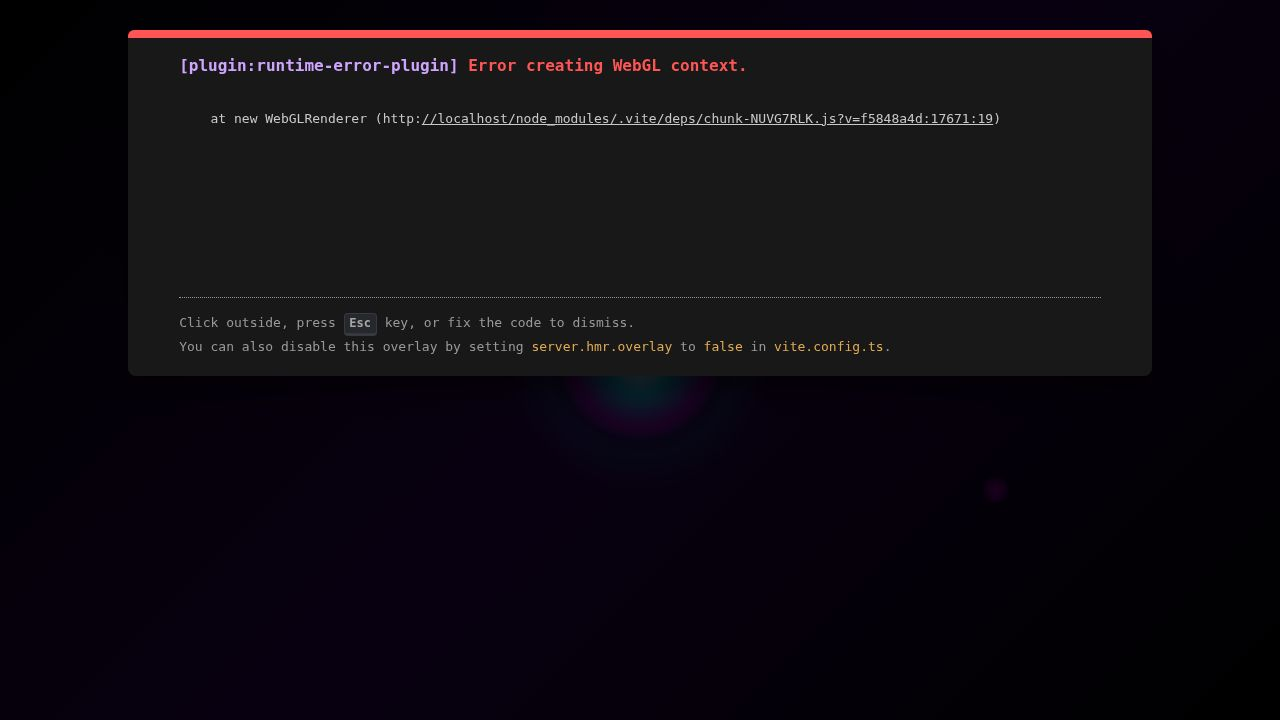
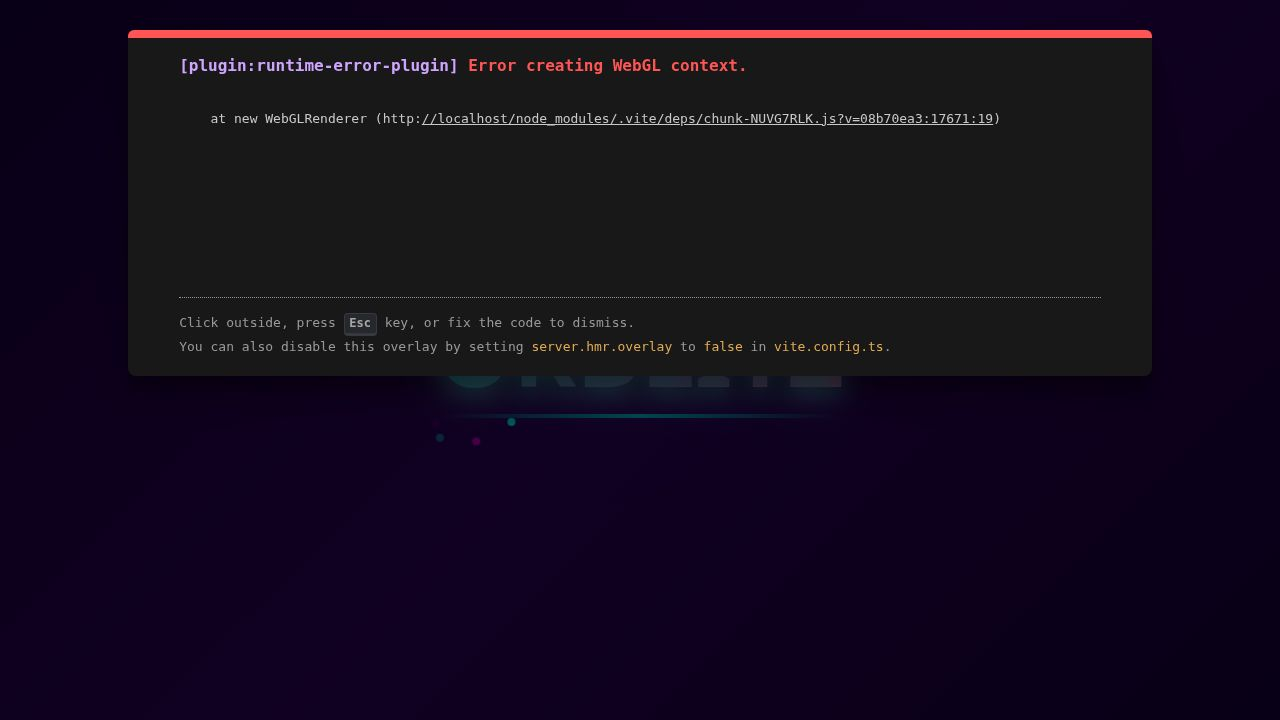
Add atmospheric depth and dynamic lighting to the game scene
Implement fog, player-tethered point light, and a post-processing stack with Bloom and SMAA passes, addressing React version conflicts in Vite configuration.

Replit-Commit-Author: Agent
Replit-Commit-Session-Id: c835ad14-b980-4609-9ea6-e9c3393206b5
Replit-Commit-Checkpoint-Type: full_checkpoint
Replit-Commit-Event-Id: 820edc75-51b3-44b7-bc6d-94490b6c6ebb
Replit-Commit-Screenshot-Url: https://storage.googleapis.com/screenshot-production-us-central1/348dcec8-252f-4e48-a8f4-24a74b741797/c835ad14-b980-4609-9ea6-e9c3393206b5/bnkxHC1
Replit-Helium-Checkpoint-Created: true

diff --git a/artifacts/orblitz/src/components/game/GameScene.tsx b/artifacts/orblitz/src/components/game/GameScene.tsx
@@ -1,5 +1,7 @@
-import { Suspense } from "react";
-import { Canvas, useThree } from "@react-three/fiber";
+import { Suspense, useEffect, useRef } from "react";
+import { Canvas, useThree, useFrame } from "@react-three/fiber";
+import { EffectComposer, Bloom, SMAA } from "@react-three/postprocessing";
+import * as THREE from "three";
 import { PlayerOrb } from "./PlayerOrb";
 import { DarkOrbs } from "./DarkOrbs";
 import { Projectiles } from "./Projectiles";
@@ -14,8 +16,40 @@ import { DefenseOrbs } from "./DefenseOrbs";
 import { MagiOrbEffects } from "./MagiOrbEffects";
 import { ScreenEffects } from "./ScreenEffects";
 import { useMagicOrb } from "@/lib/stores/useMagicOrb";
-import { useEffect, useRef } from "react";
 
+// ── Renderer configuration ────────────────────────────────────────────────────
+function RendererSetup() {
+  const { gl } = useThree();
+  useEffect(() => {
+    gl.toneMapping         = THREE.ReinhardToneMapping;
+    gl.toneMappingExposure = 1.2;
+    gl.outputColorSpace    = THREE.SRGBColorSpace;
+  }, [gl]);
+  return null;
+}
+
+// ── Dynamic point light tethered to player position ───────────────────────────
+function PlayerLight() {
+  const lightRef = useRef<THREE.PointLight>(null);
+
+  useFrame(() => {
+    if (!lightRef.current) return;
+    const pos = useMagicOrb.getState().playerPosition;
+    lightRef.current.position.set(pos[0], pos[1], 1.5);
+  });
+
+  return (
+    <pointLight
+      ref={lightRef}
+      intensity={4.5}
+      distance={14}
+      decay={2}
+      color="#ffffff"
+    />
+  );
+}
+
+// ── Camera smooth-follow ──────────────────────────────────────────────────────
 function CameraController() {
   const { camera } = useThree();
   const { boss, arcadeLevel, gameMode, playerPosition } = useMagicOrb();
@@ -23,16 +57,16 @@ function CameraController() {
   const targetZRef = useRef(10);
   const targetXRef = useRef(0);
   const targetYRef = useRef(0);
-  
+
   useEffect(() => {
     targetZRef.current = (boss !== null || isBossLevel) ? 16 : 10;
   }, [boss, isBossLevel]);
-  
+
   useEffect(() => {
     targetXRef.current = playerPosition[0];
     targetYRef.current = playerPosition[1];
   }, [playerPosition]);
-  
+
   useEffect(() => {
     let animating = true;
     const animate = () => {
@@ -40,42 +74,41 @@ function CameraController() {
       const diffZ = targetZRef.current - camera.position.z;
       const diffX = targetXRef.current - camera.position.x;
       const diffY = targetYRef.current - camera.position.y;
-      
+
       if (Math.abs(diffZ) > 0.05) {
         camera.position.z += diffZ * 0.05;
       } else {
         camera.position.z = targetZRef.current;
       }
-      
       if (Math.abs(diffX) > 0.01) {
         camera.position.x += diffX * 0.08;
       } else {
         camera.position.x = targetXRef.current;
       }
-      
       if (Math.abs(diffY) > 0.01) {
         camera.position.y += diffY * 0.08;
       } else {
         camera.position.y = targetYRef.current;
       }
-      
+
       requestAnimationFrame(animate);
     };
     animate();
     return () => { animating = false; };
   }, [camera]);
-  
+
   return null;
 }
 
+// ── Scene ─────────────────────────────────────────────────────────────────────
 export function GameScene() {
   return (
     <Canvas
-      camera={{
-        position: [0, 0, 10],
-        fov: 60,
-        near: 0.1,
-        far: 100,
+      camera={{ position: [0, 0, 10], fov: 60, near: 0.1, far: 100 }}
+      gl={{
+        powerPreference: "high-performance",
+        antialias: false,
+        stencil: false,
       }}
       style={{
         position: "fixed",
@@ -86,8 +119,17 @@ export function GameScene() {
         touchAction: "none",
       }}
     >
+      {/* Volumetric-style atmospheric fog */}
+      <fogExp2 attach="fog" args={["#06060e", 0.018]} />
+
       <Suspense fallback={null}>
+        <RendererSetup />
         <CameraController />
+
+        {/* Dynamic light tethered to the player */}
+        <PlayerLight />
+
+        {/* Game scene objects */}
         <Background />
         <PlayerOrb />
         <DarkOrbs />
@@ -101,6 +143,18 @@ export function GameScene() {
         <MagiOrbEffects />
         <ScreenEffects />
         <GameLogic />
+
+        {/* Post-processing stack */}
+        <EffectComposer multisampling={0}>
+          <Bloom
+            intensity={1.4}
+            luminanceThreshold={0.15}
+            luminanceSmoothing={0.85}
+            mipmapBlur
+            radius={0.75}
+          />
+          <SMAA />
+        </EffectComposer>
       </Suspense>
     </Canvas>
   );

diff --git a/artifacts/orblitz/vite.config.ts b/artifacts/orblitz/vite.config.ts
@@ -19,6 +19,10 @@ export default defineConfig({
       "@": path.resolve(__dirname, "src"),
       "@shared": path.resolve(__dirname, "shared"),
     },
+    dedupe: ["react", "react-dom", "@react-three/fiber", "three"],
+  },
+  optimizeDeps: {
+    include: ["@react-three/postprocessing", "postprocessing"],
   },
   root: path.resolve(__dirname),
   build: {